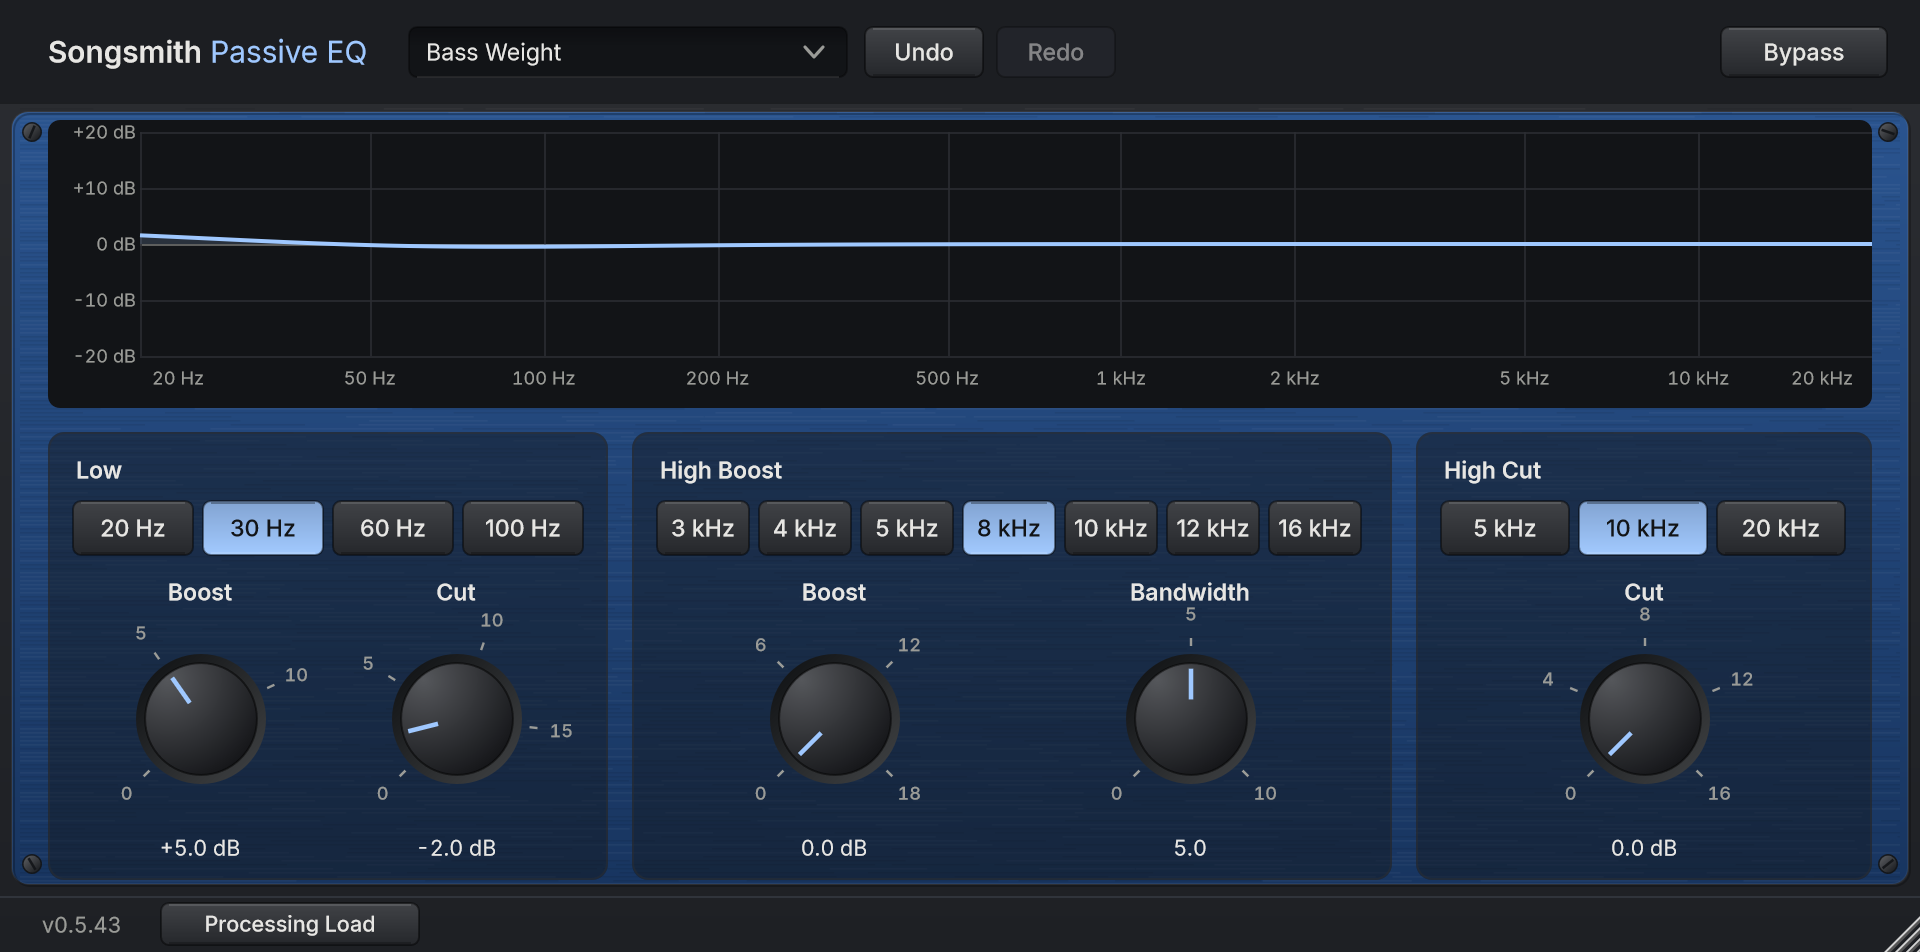
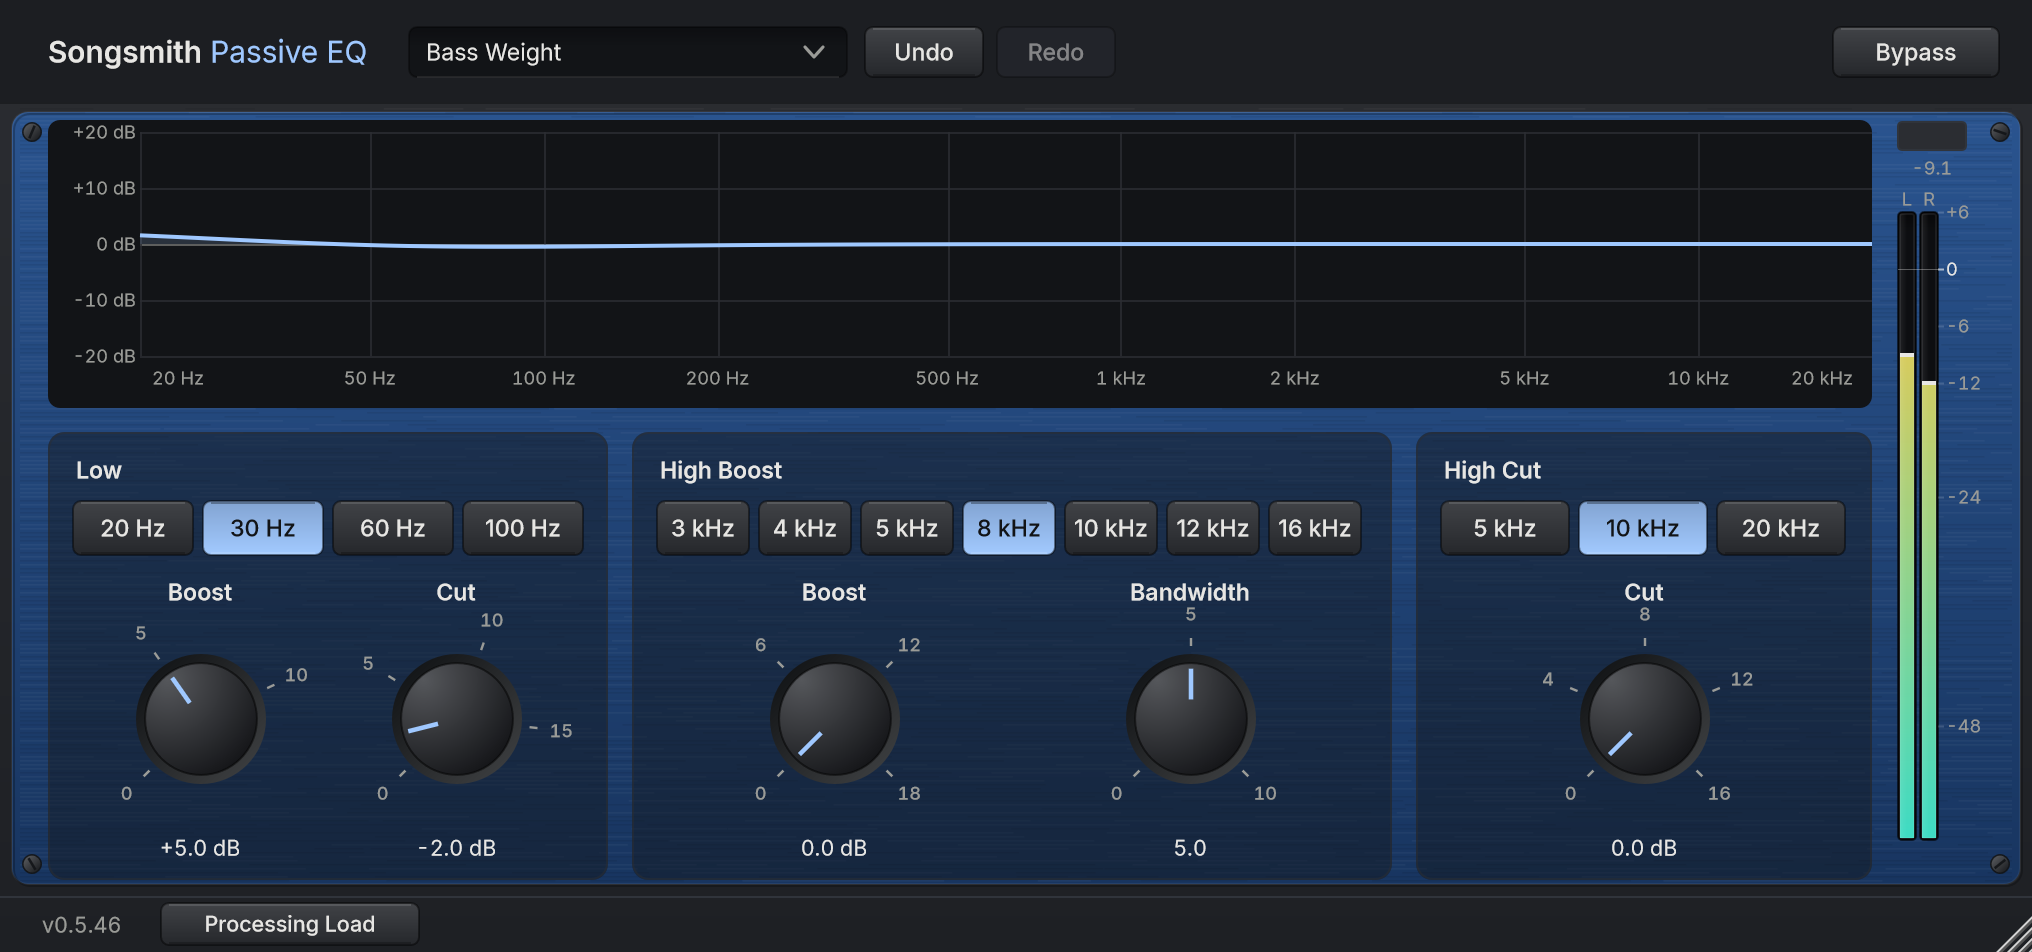
PEQ-03: Songsmith Passive EQ stereo output meters (#318)

diff --git a/pultec-eq/Tests/PassiveEQTests.cpp b/pultec-eq/Tests/PassiveEQTests.cpp
@@ -674,6 +674,103 @@ public:
             expectEquals (getParam (p, Peq::lowFrequencyId), (float) Peq::defaultLowFrequency);
         }
 
+        beginTest ("The output meter reads each channel of the processed sound: silence, a calibrated sine, imbalance, boosts, Bypass, clipping and mono");
+        {
+            auto sine = [] (int n, float amp, double hz, double fs)
+            {
+                std::vector<float> v ((size_t) n);
+                for (int i = 0; i < n; ++i)
+                    v[(size_t) i] = amp * (float) std::sin (2.0 * 3.14159265358979 * hz * (double) i / fs);
+                return v;
+            };
+            const double fs = 48000.0;
+
+            {
+                SongsmithPassiveEQProcessor p;
+                prepare (p, fs, 480);
+                run (p, { std::vector<float> (4800, 0.0f), std::vector<float> (4800, 0.0f) }, 480);
+                expectEquals (p.outputMeter.readAndResetChannel (0), 0.0f, "silence reads as silence");
+
+                // Left 0.5 and right 0.1, flat: the meter reads what comes out, separately for each side.
+                run (p, { sine (48000, 0.5f, 1000.0, fs), sine (48000, 0.1f, 1000.0, fs) }, 480);
+                const float left = p.outputMeter.readAndResetChannel (0), right = p.outputMeter.readAndResetChannel (1);
+                expectWithinAbsoluteError (left, 0.5f, 0.01f, "a calibrated sine on the left");
+                expectWithinAbsoluteError (right, 0.1f, 0.005f, "and a quieter one on the right");
+                expectWithinAbsoluteError (juce::Decibels::gainToDecibels (left) - juce::Decibels::gainToDecibels (right), 13.98f, 0.3f, "the imbalance is 14 dB");
+                expectEquals (p.outputMeter.readAndResetChannel (0), 0.0f, "reading clears it");
+                expectEquals (p.outputMeter.channels.load(), 2);
+            }
+            {
+                // After the processing: a low boost makes the output louder than the input.
+                SongsmithPassiveEQProcessor p;
+                prepare (p, fs, 480);
+                setParam (p, Peq::lowFrequencyId, 3.0f);   // 100 Hz
+                setParam (p, Peq::lowBoostId, 10.0f);
+                const auto in = sine (48000, 0.3f, 100.0, fs);
+                run (p, { in, in }, 480);
+                expect (p.outputMeter.readAndResetChannel (0) > 0.3f * 1.5f, "the meter reads the boosted sound, not the input");
+            }
+            {
+                // Bypass: what leaves is the input.
+                SongsmithPassiveEQProcessor p;
+                prepare (p, fs, 480);
+                setParam (p, Peq::lowFrequencyId, 3.0f);
+                setParam (p, Peq::lowBoostId, 10.0f);
+                setParam (p, Peq::bypassId, 1.0f);
+                const auto in = sine (48000, 0.3f, 100.0, fs);
+                run (p, { in, in }, 480);
+                p.outputMeter.readAndResetChannel (0);
+                run (p, { in, in }, 480);
+                expectWithinAbsoluteError (p.outputMeter.readAndResetChannel (0), 0.3f, 0.005f, "bypassed, the meter reads the untouched input");
+            }
+            {
+                // Clipping: the warning lights at 0 dBFS and clears after the sound has stopped.
+                SongsmithPassiveEQProcessor p;
+                prepare (p, fs, 480);
+                run (p, { sine (4800, 1.2f, 1000.0, fs), sine (4800, 0.2f, 1000.0, fs) }, 480);
+                expect (p.outputMeter.clipLatched.load(), "the clip warning lights");
+                run (p, { std::vector<float> (96000, 0.0f), std::vector<float> (96000, 0.0f) }, 480);
+                expect (! p.outputMeter.clipLatched.load(), "and clears in silence");
+            }
+            {
+                SongsmithPassiveEQProcessor p;
+                prepare (p, fs, 480, 1);
+                run (p, { sine (4800, 0.4f, 1000.0, fs) }, 480);
+                expectEquals (p.outputMeter.channels.load(), 1, "a mono host shows one bar");
+                expectWithinAbsoluteError (p.outputMeter.readAndResetChannel (0), 0.4f, 0.01f);
+            }
+        }
+
+        beginTest ("The output meter sits on the right edge, labelled, beside the curve and the groups, and follows the audio");
+        for (int width : { Peq::EditorLayout::minWidth, Peq::EditorLayout::defaultWidth, Peq::EditorLayout::maxWidth })
+        {
+            SongsmithPassiveEQProcessor p;
+            prepare (p, 48000.0, 480);
+            auto ed = make (p, width);
+            const auto context = "at " + juce::String (width) + " px";
+            auto& meter = ed->getOutputMeter();
+            auto* content = meter.getParentComponent();
+            expect (content->getLocalBounds().contains (meter.getBounds()), context + ": inside the editor");
+            expect (meter.getBottom() <= Peq::EditorLayout::contentHeight, context + ": above the footer strip");
+            expect (meter.getX() >= ed->getCurve().getRight() && meter.getX() >= ed->getHighCutGroup().getRight(), context + ": right of the curve and every group");
+            expectEquals (meter.getTitle(), juce::String ("Output level"));
+            expect (meter.getTooltip().contains ("not true peak") && meter.getTooltip().contains ("left and right"), context + ": the tooltip says what it measures");
+            Songsmith::UI::Wording::expectTextFits (*this, *ed, ed->getLookAndFeel(), context);
+        }
+        {
+            SongsmithPassiveEQProcessor p;
+            prepare (p, 48000.0, 480);
+            auto ed = make (p, Peq::EditorLayout::defaultWidth);
+            std::vector<float> in (48000);
+            for (size_t i = 0; i < in.size(); ++i)
+                in[i] = 0.5f * (float) std::sin (2.0 * 3.14159265358979 * 1000.0 * (double) i / 48000.0);
+            run (p, { in, std::vector<float> (in.size(), 0.0f) }, 480);
+            ed->advanceMeter (0.033);
+            expectEquals (ed->getOutputMeter().getNumChannels(), 2);
+            expect (ed->getOutputMeter().getPeakText() != juce::String::charToString (0x2013), "the held peak shows a number");
+            expectWithinAbsoluteError (ed->getOutputMeter().getHoldDb(), -6.0f, 0.3f, "the held peak is about -6 dBFS");
+        }
+
         beginTest ("The faceplate is blue and textured, not flat, and the title bar keeps the suite's neutral look");
         {
             SongsmithPassiveEQProcessor p;
@@ -720,6 +817,17 @@ static int renderScreenshot (const juce::File& file, float scale, int preset)
     prepare (p, 48000.0, 512);
     std::unique_ptr<SongsmithPassiveEQEditor> editor (dynamic_cast<SongsmithPassiveEQEditor*> (p.createEditor()));
     editor->refreshCurve();
+
+    // Two seconds of a steady tone, a little louder on the left, so the output meter has something to show.
+    std::vector<float> left (96000), right (96000);
+    for (size_t i = 0; i < left.size(); ++i)
+    {
+        const float tone = (float) std::sin (2.0 * 3.14159265358979 * 440.0 * (double) i / 48000.0);
+        left[i] = 0.35f * tone;
+        right[i] = 0.25f * tone;
+    }
+    run (p, { left, right }, 512);
+    editor->advanceMeter (0.5);
 
     const auto image = editor->createComponentSnapshot (editor->getLocalBounds(), true, scale);
     file.deleteFile();

diff --git a/pultec-eq/Source/PluginEditor.cpp b/pultec-eq/Source/PluginEditor.cpp
@@ -24,6 +24,8 @@ namespace
     const juce::Rectangle<int> lowGroup      { 24, 216, 280, 224 };
     const juce::Rectangle<int> highBoostGroup { 316, 216, 380, 224 };
     const juce::Rectangle<int> highCutGroup  { 708, 216, 228, 224 };
+    // The output meter runs the full height of the curve and the groups, on the right edge.
+    const juce::Rectangle<int> meterArea     { designWidth - 20 - Songsmith::UI::OutputMeterDisplay::preferredWidth, 60, Songsmith::UI::OutputMeterDisplay::preferredWidth, 380 };
     constexpr int groupInset = 12, switchTop = 34, switchHeight = 28, knobTop = 70;
 
     // The faceplate's fine brushed-metal grain (shared with the other plugins). Built once; the same grain every time.
@@ -169,6 +171,11 @@ SongsmithPassiveEQEditor::SongsmithPassiveEQEditor (SongsmithPassiveEQProcessor&
     addAndMakeVisible (content);
 
     content.addAndMakeVisible (curve);
+    outputMeter.setTitle ("Output level");
+    outputMeter.setTooltip ("Output level of the left and right channels, after the equaliser and Bypass. This equaliser has no output control, so a boost makes the sound louder: "
+                            "if the clip warning lights, lower the boosts. The number under the warning is the highest sample level held for 1.5 seconds. "
+                            "This is sample peak, not true peak. Click to clear the held number.");
+    content.addAndMakeVisible (outputMeter);
     for (auto* c : std::initializer_list<juce::Component*> { &lowSwitch, &highBoostSwitch, &highCutSwitch,
                                                               &lowBoostKnob, &lowCutKnob, &highBoostKnob, &bandwidthKnob, &highCutKnob })
         content.addAndMakeVisible (*c);
@@ -273,9 +280,21 @@ void SongsmithPassiveEQEditor::resized()
     syncSizeFromWidth();
 }
 
+void SongsmithPassiveEQEditor::advanceMeter (double elapsedSeconds)
+{
+    auto& m = proc.outputMeter;
+    m.readAndReset();   // the all-channel peak isn't shown; the per-channel ones are
+    m.clipped.store (false, std::memory_order_relaxed);
+    outputMeter.update (m.readAndResetChannel (0), m.readAndResetChannel (1),
+                        m.channels.load (std::memory_order_relaxed),
+                        m.clipLatched.load (std::memory_order_relaxed),
+                        juce::Time::getMillisecondCounterHiRes() * 0.001, elapsedSeconds);
+}
+
 void SongsmithPassiveEQEditor::layoutContent()
 {
     curve.setBounds (curveArea);
+    outputMeter.setBounds (meterArea);
 
     lowSwitch.setBounds (inside (lowGroup));
     highBoostSwitch.setBounds (inside (highBoostGroup));

diff --git a/pultec-eq/Source/PluginProcessor.cpp b/pultec-eq/Source/PluginProcessor.cpp
@@ -101,6 +101,8 @@ void SongsmithPassiveEQProcessor::prepareToPlay (double sampleRate, int samplesP
     engine.setParams (getEngineParams());
     engine.prepare (sampleRate);
     engine.setParams (getEngineParams());
+    outputMeter.channels.store (juce::jlimit (1, (int) Songsmith::UI::OutputMeterState::maxChannels, getMainBusNumOutputChannels()), std::memory_order_relaxed);
+    outputMeter.resetLatch (sampleRate);   // a new session or layout starts without a warning
     setLatencySamples (0);
 }
 
@@ -121,6 +123,7 @@ void SongsmithPassiveEQProcessor::processBlock (juce::AudioBuffer<float>& buffer
     bypassMix.setTargetValue (bypassParam->get() ? 1.0f : 0.0f);
     engine.setParams (getEngineParams());
 
+    float blockPeak = 0.0f;
     for (int pos = 0; pos < total;)
     {
         const int num = juce::jmin (chunk, total - pos);
@@ -150,8 +153,20 @@ void SongsmithPassiveEQProcessor::processBlock (juce::AudioBuffer<float>& buffer
                 juce::FloatVectorOperations::copy (ch[c], dryBuffer.getReadPointer (c), num);   // bit-exact dry
         }
 
+        // The output meter reads what actually leaves the plugin: after the filters and after Bypass.
+        for (int c = 0; c < numCh; ++c)
+        {
+            const float channelPeak = buffer.getMagnitude (c, pos, num);
+            blockPeak = juce::jmax (blockPeak, channelPeak);
+            outputMeter.pushChannel (c, channelPeak);
+        }
+
         pos += num;
     }
+
+    outputMeter.push (blockPeak);
+    outputMeter.channels.store (juce::jlimit (1, (int) Songsmith::UI::OutputMeterState::maxChannels, numOut), std::memory_order_relaxed);
+    outputMeter.updateClipLatch (blockPeak, total);
 }
 
 //==============================================================================

diff --git a/pultec-eq/Source/PluginEditor.h b/pultec-eq/Source/PluginEditor.h
@@ -5,6 +5,7 @@
 #include "PeqLookAndFeel.h"
 #include "PeqCurve.h"
 #include "../../shared/Source/SongsmithGuidance.h"
+#include "../../shared/Source/SongsmithOutputMeter.h"
 
 // A rotary control with its name above, a printed scale around it and a readable value below.
 class PeqKnob : public juce::Component
@@ -71,6 +72,9 @@ public:
 
     // For tests and screenshots.
     Peq::UI::ResponseCurve& getCurve() noexcept { return curve; }
+    Songsmith::UI::OutputMeterDisplay& getOutputMeter() noexcept { return outputMeter; }
+    // Reads the audio thread's output peaks into the meter, as the timer does 30 times a second.
+    void advanceMeter (double elapsedSeconds);
     PeqKnob& getLowBoostKnob() noexcept { return lowBoostKnob; }
     PeqKnob& getLowCutKnob() noexcept { return lowCutKnob; }
     PeqKnob& getHighBoostKnob() noexcept { return highBoostKnob; }
@@ -92,7 +96,7 @@ public:
 
 private:
     void syncSizeFromWidth();
-    void timerCallback() override { refreshCurve(); refreshHistoryButtons(); }
+    void timerCallback() override { refreshCurve(); refreshHistoryButtons(); advanceMeter (1.0 / 30.0); }
     void refreshHistoryButtons();
     void rebuildPresetMenu();
     void presetChosen();
@@ -115,6 +119,7 @@ private:
     juce::Rectangle<int> titleBounds;   // the product name, painted
 
     Peq::UI::ResponseCurve curve;
+    Songsmith::UI::OutputMeterDisplay outputMeter;   // the output level of each channel, on the right
 
     PeqSwitch lowSwitch, highBoostSwitch, highCutSwitch;
     PeqKnob lowBoostKnob, lowCutKnob, highBoostKnob, bandwidthKnob, highCutKnob;

diff --git a/pultec-eq/Source/PeqParams.h b/pultec-eq/Source/PeqParams.h
@@ -42,11 +42,11 @@ namespace Peq
     // The editor is laid out once at a design size and scaled as a whole, so every size looks the same.
     namespace EditorLayout
     {
-        constexpr int designWidth = 960, contentHeight = 448;   // the controls sit above the footer strip
+        constexpr int designWidth = 1016, contentHeight = 448;   // the controls sit above the footer strip
         constexpr int footerHeight = 28;                         // the latency and Processing Load strip below them
         constexpr int designHeight = contentHeight + footerHeight;
         constexpr int defaultWidth = designWidth;
-        constexpr int minWidth = 720, maxWidth = 2880;           // 75 % to 300 %
+        constexpr int minWidth = 762, maxWidth = 3048;           // 75 % to 300 %
 
         inline int constrainWidth (int width) noexcept { return juce::jlimit (minWidth, maxWidth, width); }
         inline int heightFor (int width) noexcept      { return juce::roundToInt ((double) width * designHeight / designWidth); }

diff --git a/pultec-eq/Source/PluginProcessor.h b/pultec-eq/Source/PluginProcessor.h
@@ -6,6 +6,7 @@
 #include "PassiveEngine.h"
 #include "../../shared/Source/SongsmithDiagnostics.h"
 #include "../../shared/Source/SongsmithHeader.h"
+#include "../../shared/Source/SongsmithOutputMeter.h"
 
 class SongsmithPassiveEQProcessor : public juce::AudioProcessor
 {
@@ -57,6 +58,10 @@ public:
 
     // Editor state saved with the session (not automatable): window width.
     std::atomic<int> editorWidth { Peq::EditorLayout::defaultWidth };
+
+    // The output level for the editor's stereo meter: each channel's peak after all the processing and Bypass, read once by the
+    // editor (the same shared meter as Songsmith EQ and Songsmith Compressor). Written lock-free from the audio thread.
+    Songsmith::UI::OutputMeterState outputMeter;
 
     // Optional timing of processBlock for the editor's Processing Load readout (off unless the editor switches it on).
     Songsmith::Diagnostics::LoadMeter loadMeter;

diff --git a/CHANGELOG.md b/CHANGELOG.md
@@ -2,6 +2,10 @@
 
 Every Songsmith plugin, installer and release shares one version number, kept in the `VERSION` file. Each version has one release on the [Releases page](https://github.com/tonygward/audio-plugins/releases), tagged `vX.Y.Z`. Releases from before one shared version keep the tags they had (`v0.2.0` to `v0.4.0`, `compressor-v0.1.0`, `maximizer-v0.1.0`, `studio-v1.0.0`), and the plugin changelogs ([Songsmith EQ](eq/CHANGELOG.md), [Songsmith Maximiser](maximiser/CHANGELOG.md)) hold their earlier entries. Versions 1.1.0 to 1.3.8 came first: the suite was then renumbered to 0.5.0, which is why the numbers below 0.5.0 are higher.
 
+## Unreleased
+
+- Songsmith Passive EQ now has two tall output meters on the right, one for each channel, in the same rounded style as the other plugins, with a clip warning and a held peak number. They show the sound after the equaliser and Bypass, as sample peak, not true peak. The window is a little wider. The sound has not changed. A boost makes the sound louder, so if the clip warning lights, lower the boosts.
+
 ## 0.5.46
 
 - Songsmith Optical Leveller now has a grey, textured faceplate, and the Compress and Limit buttons each show a small picture of what they do: Compress bends the level gently, Limit flattens it much more. The Limit tooltip now says plainly that it is a firmer setting of the same smooth action, not a hard ceiling. The sound has not changed, and you do not need to do anything.

diff --git a/pultec-eq/README.md b/pultec-eq/README.md
@@ -18,7 +18,11 @@ It lifts or lowers the low end and the high end in broad, gentle strokes. The co
 - **High Boost** chooses a frequency (3, 4, 5, 8, 10, 12 or 16 kHz). **Boost** lifts the top end around it, and **Bandwidth** sets how wide the lift is, from broad to narrow.
 - **High Cut** chooses a frequency (5, 10 or 20 kHz). **Cut** turns everything above it down.
 
-The curve at the top shows the combined effect, from 20 Hz to 20 kHz. Everything else is the same as the other Songsmith plugins: **Bypass** at the top right, **Undo** and **Redo**, a **Preset** menu, and **Processing Load** at the bottom left.
+The curve at the top shows the combined effect, from 20 Hz to 20 kHz. The two tall meters on the right show the output level of the left and right channels, after the filters and Bypass, in dBFS. There is no output level control, so a boost makes the sound louder: if the CLIP warning lights, lower the boosts. It measures sample peak, not true peak. Everything else is the same as the other Songsmith plugins: **Bypass** at the top right, **Undo** and **Redo**, a **Preset** menu, and **Processing Load** at the bottom left.
+
+![Songsmith Passive EQ with the output meters showing a tone](docs/images/peq-03-output-meters.png)
+
+*Real screenshot at 200 %, with a steady tone playing through it.*
 
 A new instance does nothing: every amount starts at zero, and the sound passes through exactly as it came in.
 
